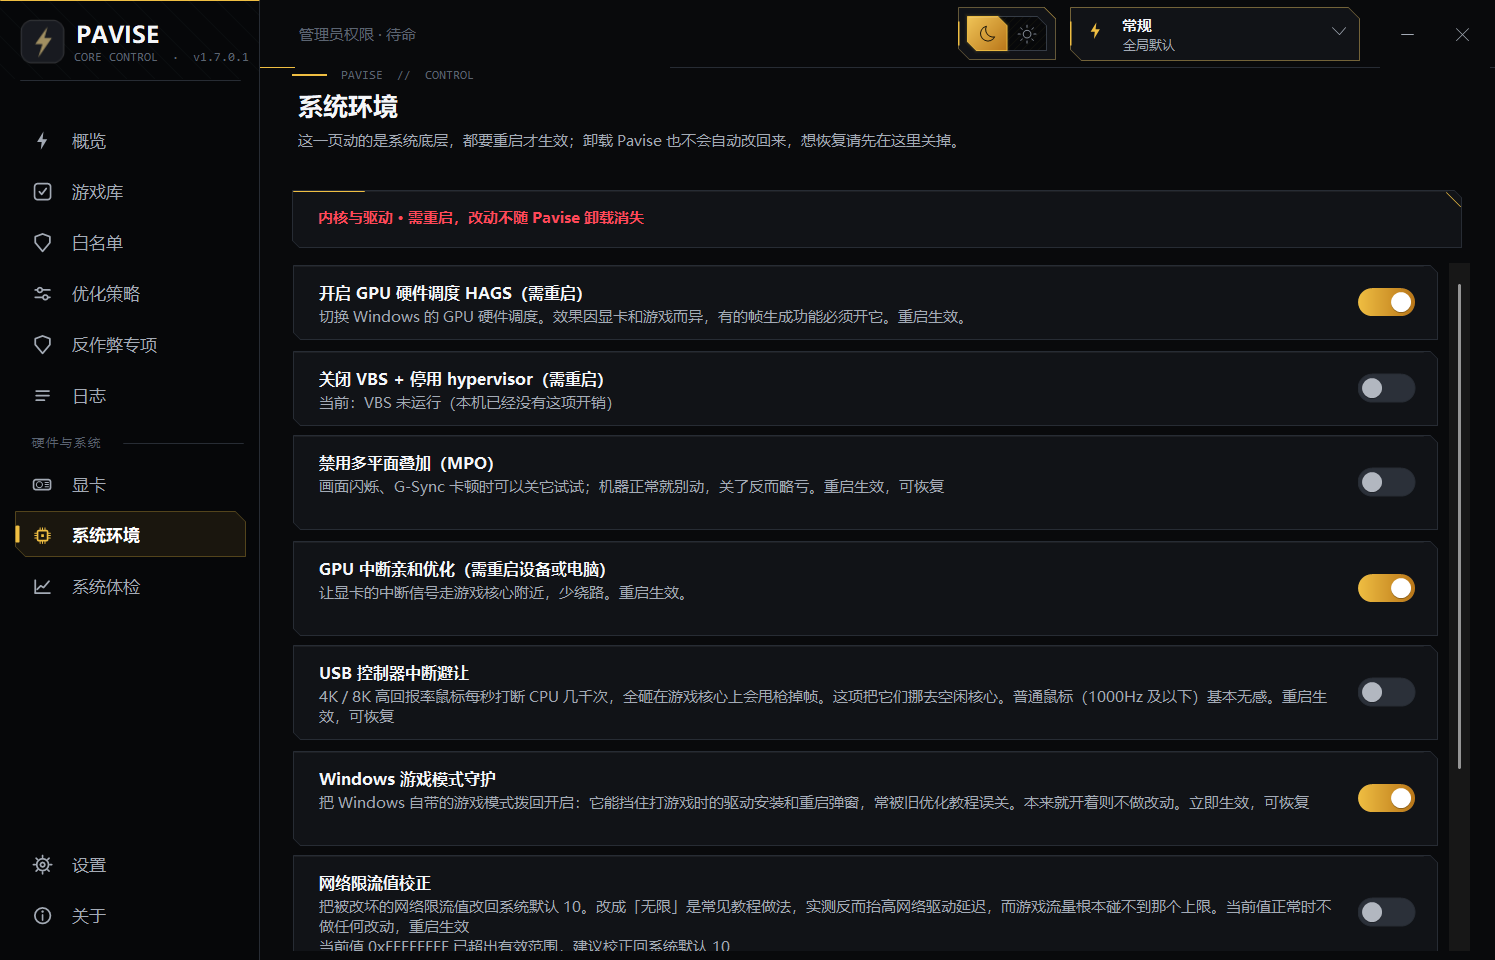
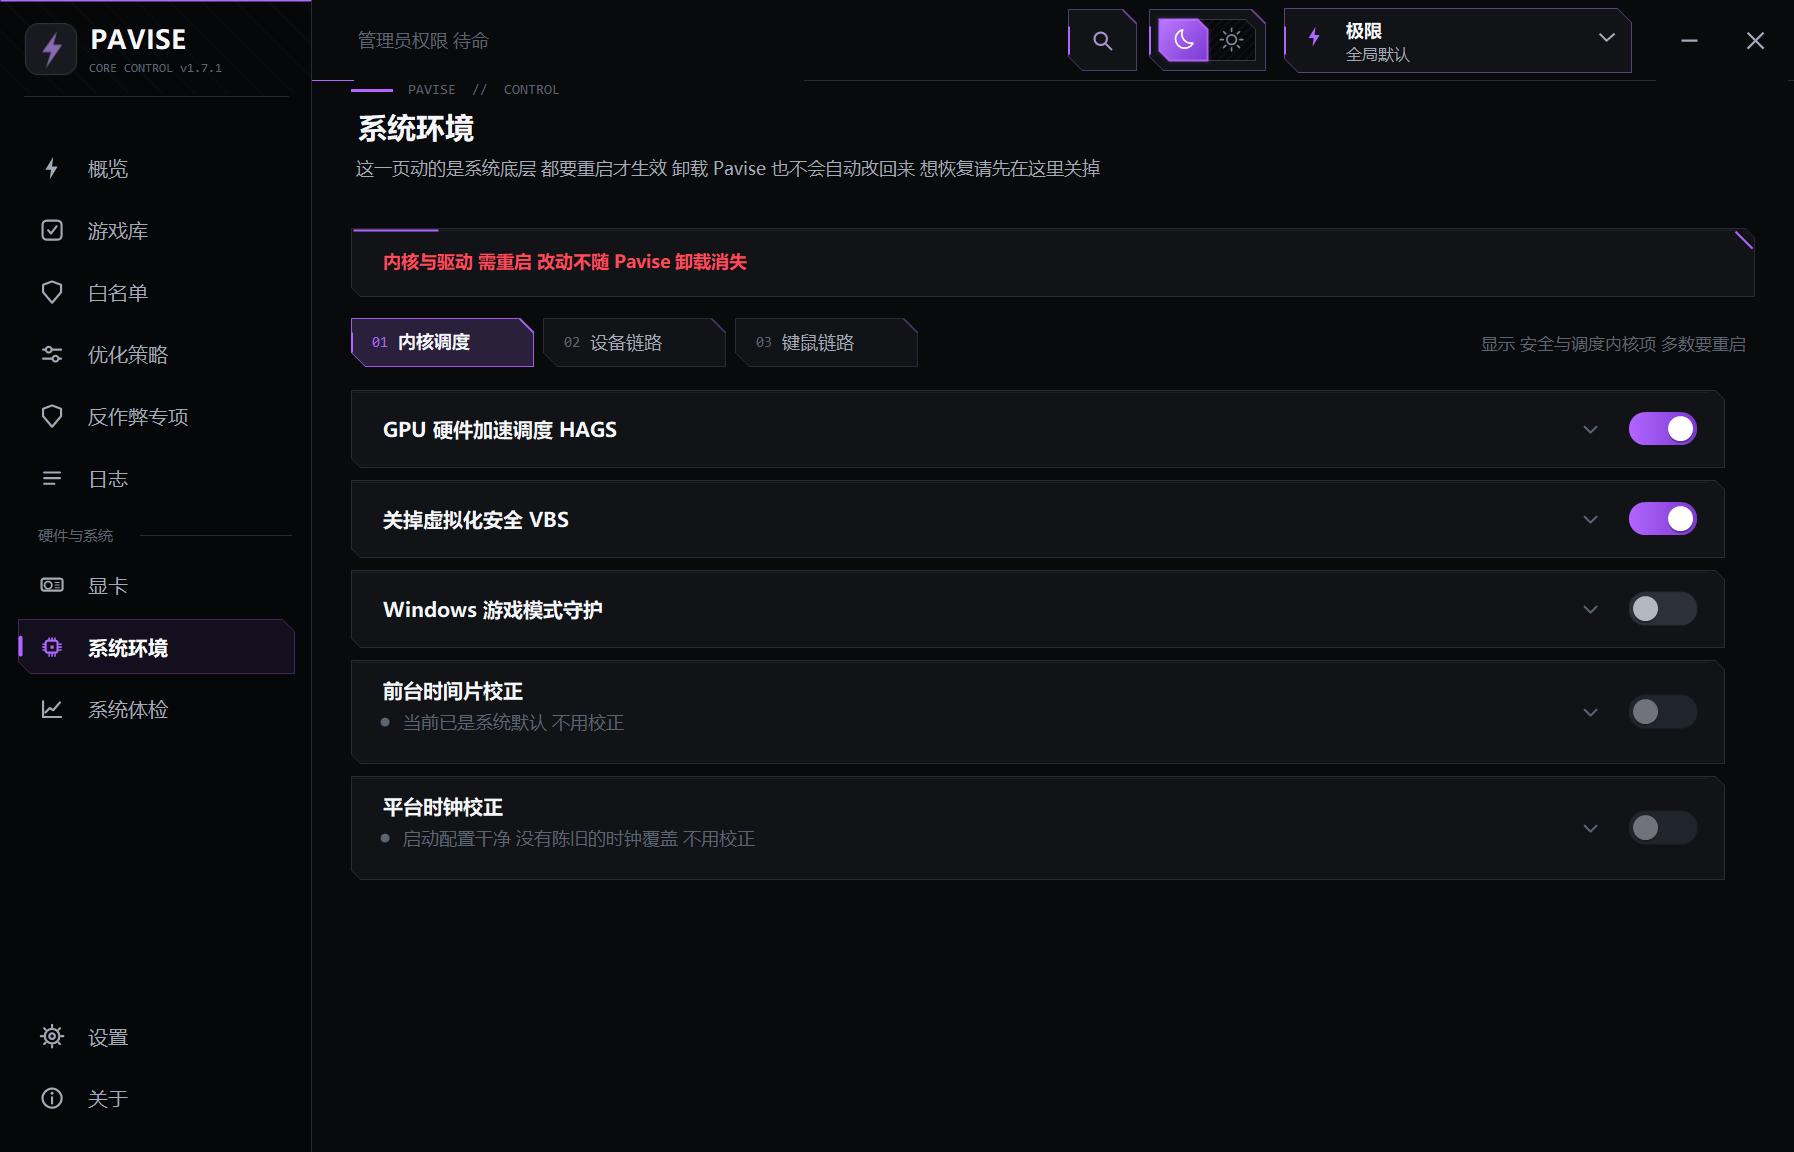
docs: README 补齐核心分配等功能 换 v1.7.1 界面截图
三语同步。功能列表按进程与核心 显卡 键鼠与中断 内存与电源分组
补上核心分配手动档 重压后台绑核收缩 后备提优 服务让路 强制接管等
指针精度增强已做成开关 从「只报告不修改」里移出
截图重出九张 新增核心分配与游戏库 删掉不再引用的 v14 组

diff --git a/README.en.md b/README.en.md
@@ -47,35 +47,62 @@ In every mode, anti-cheat, the host process of a running game, Windows core serv
 
 ## Features
 
+**Processes and cores**
+
 - The game receives high priority, elevated disk IO and GPU scheduling priority and dedicated cores; background processes are demoted or migrated to other cores according to the mode
 - CPU partitioning supports hybrid architectures, X3D and multiple processor groups. No core splitting on 6 cores or fewer
+- Core allocation can be set core by core, with presets for all cores, SMT off, P-cores only and invert; changes take effect when you press Apply. Most people should leave it alone — the scheduler already puts game threads on P-cores
+- Background affinity squeeze: already-suppressed background processes are pulled from every core down to a handful of physical ones. The target is their concurrent memory access eating bandwidth, which neither priority nor efficiency mode can touch. The landing zone is computed live from the cores you gave the game, and on multi-CCD parts it avoids the game's L3 entirely. Bench-measured 33 fps to 95 fps
 - Smart frame protection: the thread determining the frame rate is identified and boosted separately. Bench-measured improvement of 77%–96% in 1% lows when the CPU is saturated
+- Fallback boost: for games whose handles are blocked by kernel anti-cheat, the system assigns high priority at process creation instead, effective from the next launch
+- Service yielding: selected service processes are steered onto background cores during a session — steered, not stopped
+
+**Graphics**
+
 - Background GPU yielding: background processes using the GPU have their GPU scheduling priority lowered as well
 - NVIDIA tuning: maximum performance power mode, DLSS4 Transformer override, per-game ReBAR, Ansel injection disabled, battery frame cap removed. Original values are snapshotted and restored on disable
-- Input latency: Filter Keys and Sticky Keys are turned off (Microsoft defines them as ignoring brief keystrokes, so enabling them introduces delay), system suspension of mouse and keyboard is blocked, and input queue sizes altered by other tools are repaired
-- Interrupt storms from 4K/8K polling mice are steered away from the game's cores
+- On dual-GPU machines, suppressed background processes using the discrete GPU are moved to the integrated one
+
+**Input and interrupts**
+
+- Filter Keys, Sticky Keys and Toggle Keys are turned off. Microsoft defines them as ignoring brief keystrokes, so leaving them on necessarily costs latency
+- System suspension of mouse and keyboard is blocked, which fixes the first input feeling vague after a short idle. It touches input devices only, not USB drives or audio interfaces
+- Input queue sizes altered by other tools are repaired, and Enhance Pointer Precision (the system mouse acceleration curve) can be turned off
+- Interrupt storms from 4K/8K polling mice are steered away from the game's cores. The cost is explained before you enable it: below 1000 Hz there is essentially nothing to gain
+- Disk controller completion interrupts are moved to idle cores
+
+**Memory and power**
+
+- Purge low-priority standby pages before a session, trim background working sets once the session is stable, and empty the standby list when it crosses a threshold. All three are off by default, each with its cost written under the switch
+- The session switches to the Ultimate Performance power plan, creating one if the machine lacks it and using yours if it has one
 - Power plan, network, Game DVR, notifications and indexing services are all restored after the game ends
-- Health check page: read-only inspection of the machine's capabilities, with each conclusion tagged by evidence level. Supports one-click verification of whether NVIDIA writes took effect, live measurement of mouse polling rate, and the GPU's current power or thermal throttling state
+
+**What you can see**
+
+- Health check page: read-only inspection of the machine's capabilities, with each conclusion tagged by evidence level. Supports one-click verification of whether NVIDIA writes took effect, live measurement of mouse polling rate, and the GPU's current power or thermal throttling state. The interrupt row uses kernel ETW to trace DPC and ISR activity and names the top source directly
 - Session report: play duration, number of suppressed processes and their CPU usage, and the share of time spent against a power or thermal limit
+- The library supports forced takeover for things that cannot be detected, such as emulators and cloud gaming: the moment the process appears, the session begins
 - Whitelist on its own page; drag items in and the scope is determined automatically
 
 A purely local tool: no service is installed, no data is uploaded, and the game process, its memory and its files are never modified. Writes are read back and verified wherever possible; a value that does not read back as expected is not counted as success.
 
 ## What it does not do
 
-Most of the circulated registry tweaks for input latency act at the scale of a fraction of a millisecond, while the main source of latency is the render queue. Pavise reports these but does not change them, including Bluetooth mice, 125 Hz polling rates and Enhance Pointer Precision.
+Most of the circulated registry tweaks for input latency act at the scale of a fraction of a millisecond, while the main source of latency is the render queue. Pavise reports these but does not change them, including Bluetooth mice and 125 Hz polling rates — the health check page points them out and leaves the decision to you.
 
-MSI mode, low-latency mode, background frame caps and masking off CPU 0/1 by position were all implemented and later removed, for reasons of no measurable effect, the risk of writing a device into an unbootable state, and misread semantics respectively — the driver's background frame cap actually applies to applications that have lost focus, so the game itself is what gets limited after you alt-tab.
+MSI mode, low-latency mode, background frame caps, fullscreen-window optimisation, game file prewarming and masking off CPU 0/1 by position were all implemented and later removed, for reasons of no measurable effect, the risk of writing a device into an unbootable state, and misread semantics respectively — the driver's background frame cap actually applies to applications that have lost focus, so the game itself is what gets limited after you alt-tab. Anything removed has the values written by older versions restored automatically on upgrade.
 
 The same applies to memory cleaning. Purging the entire standby list adds only 382 MB of available memory at the cost of discarding 18.9 GB of file cache, which the game then has to re-read from disk. The default therefore purges only the pages the system marks as least likely to be needed again, taking 13 ms.
 
 ## Screenshots
 
 <div align="center">
-<img src="docs/overview-v14.png" width="49%" alt="Overview">
-<img src="docs/library-v14.png" width="49%" alt="Library">
-<img src="docs/policy-v14.png" width="49%" alt="Policy">
-<img src="docs/anticheat-v14.png" width="49%" alt="Anti-cheat">
+<img src="docs/guide-overview.png" width="49%" alt="Overview">
+<img src="docs/guide-library.png" width="49%" alt="Library">
+<img src="docs/guide-policy.png" width="49%" alt="Policy">
+<img src="docs/guide-core.png" width="49%" alt="Core allocation">
+<img src="docs/guide-anticheat.png" width="49%" alt="Anti-cheat">
+<img src="docs/guide-audit.png" width="49%" alt="Health check">
 </div>
 
 ## Building
@@ -85,7 +112,6 @@ Uses the .NET Framework compiler included with Windows. Visual Studio is not req
 ```cmd
 build.cmd      rem produces Pavise.exe
 dev.cmd        rem kill old instance -> build -> launch
-dev.cmd test   rem run the built-in self-tests (currently 175)
 ```
 
 Source builds are unsigned, so SmartScreen will show a warning.
@@ -112,7 +138,7 @@ bdth ｜ 2074055628@qq.com ｜ WeChat: Ssssssstyle (bugs, suggestions and usage 
 
 Released under the [Pavise Licence](LICENSE): the source is open and may be freely used, modified and distributed at no charge, but **selling it is prohibited**.
 
-Taking money in any form for distributing Pavise or a modified version is not permitted. This includes selling copies, activation keys or download access; bundling it into a paid product or subscription; paywalls, paid unlocks and donation gates; preinstalling it on machines or system images sold for money; and using it to obtain traffic revenue. Voluntary donations are excluded, provided that paying or not paying has no effect on obtaining the software or support. Commercial use requires prior written authorisation by email.
+Taking money in any form for distributing Pavise or a modified version is not permitted. This includes selling copies, activation keys or download access; bundling it into a paid product or subscription; paywalls, paid unlocks and donation gates.
 
 When distributing, keep the licence and author information intact, inform recipients that the software may not be sold, and when distributing a modified version, state who modified it and what was changed.
 
